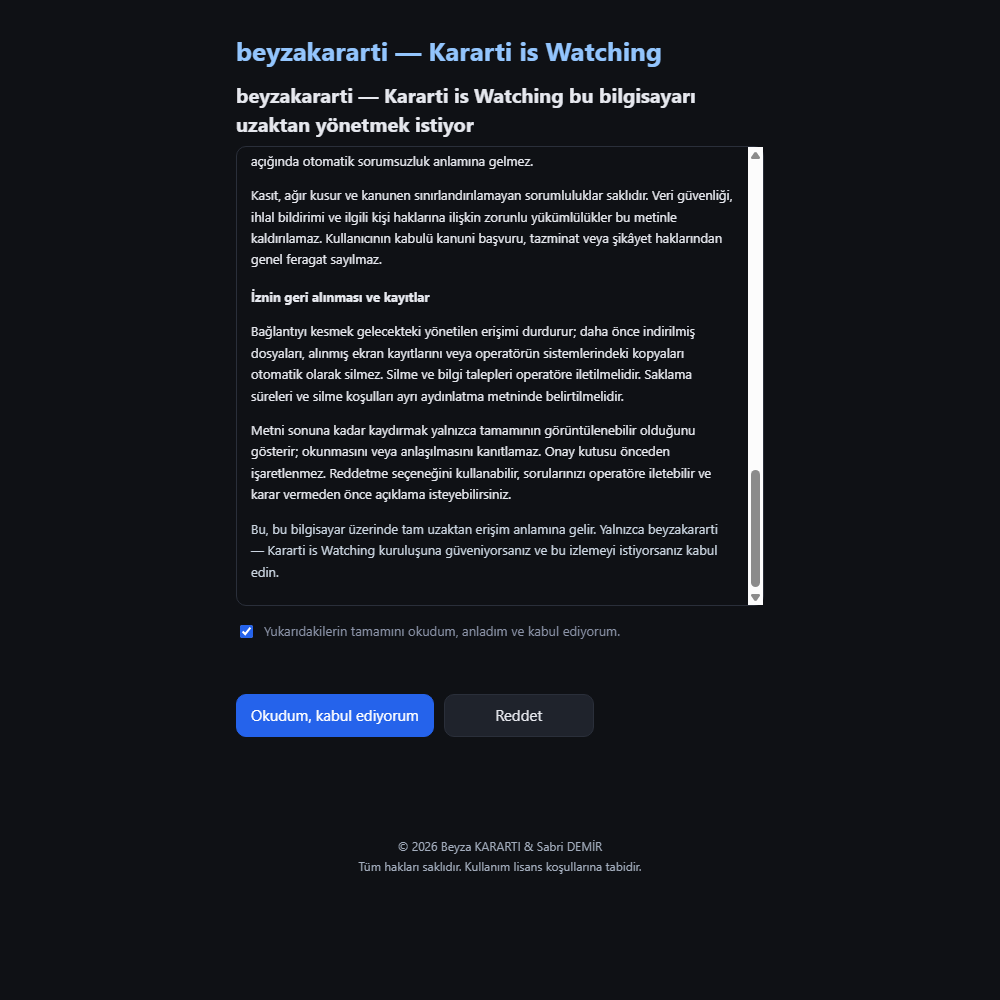
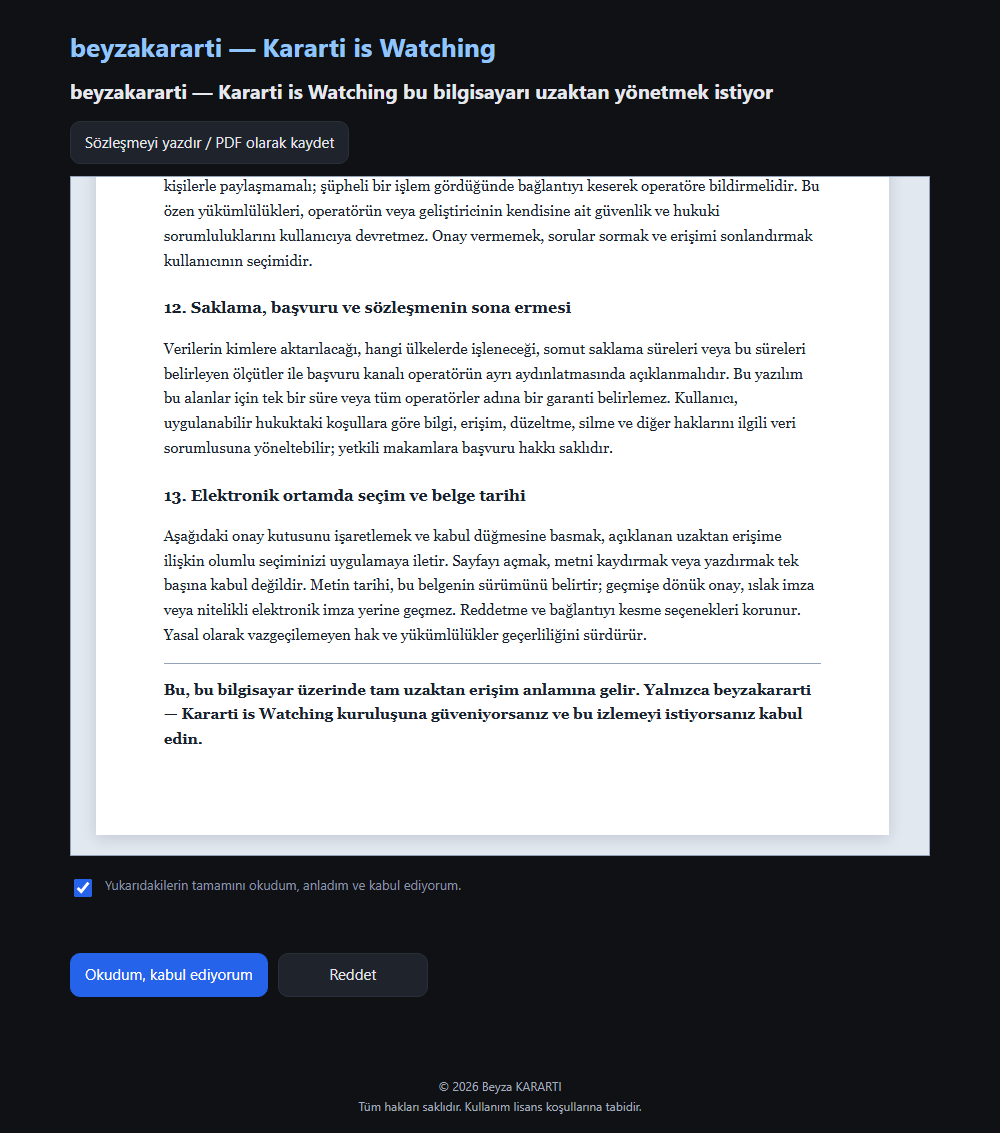
docs: show dated A4 agreement and document v0.3.12

diff --git a/README.de.md b/README.de.md
@@ -2,13 +2,13 @@
 
 [English](README.md) · [Deutsch](README.de.md) · [Türkçe](README.tr.md)
 
-## Neu in v0.3.11
+## Neu in v0.3.12
 
-Sabreza View International besitzt jetzt einen eigenen Installer-Namen und eine eigene App-Identität. Smartphone- und PC-Startseiten zeigen einen mehrsprachigen Urheberrechtshinweis. Diese Version wird getrennt von früheren Versionen installiert; Einrichtung und Zustimmung erneut abschließen. [Versionsdetails](docs/release-v0.3.11.md).
+Die Vereinbarung erscheint nun als datiertes weißes Dokument im A4-Stil mit 13 nummerierten Abschnitten, ausführlichen Betreiber-/Nutzerpflichten und einer Druck-/PDF-Option. Der sichtbare Urheberrechtshinweis nennt nur Beyza KARARTI. Ausdrückliche Zustimmung, Ablehnung und Trennung bleiben verfügbar. [Versionsdetails](docs/release-v0.3.12.md).
 
 ## Vor dem Download lesen
 
-**Die Desktop-Installer v0.3.11 verbinden sich erst nach Ihrer ausdrücklichen Zustimmung zum Fernzugriff mit dem Betreiber „beyzakararti — Kararti is Watching“.** Das unterscheidet sich von älteren Downloads für den persönlichen Gebrauch. Download, Installation oder frühere allgemeine Vertragsannahme sind keine Zustimmung zur Überwachung.
+**Die Desktop-Installer v0.3.12 verbinden sich erst nach Ihrer ausdrücklichen Zustimmung zum Fernzugriff mit dem Betreiber „beyzakararti — Kararti is Watching“.** Das unterscheidet sich von älteren Downloads für den persönlichen Gebrauch. Download, Installation oder frühere allgemeine Vertragsannahme sind keine Zustimmung zur Überwachung.
 
 Wenn Sie die Erklärung in der App akzeptieren, kann der Betreiber im Rahmen der unterstützten Funktionen Ihren Bildschirm sehen und aufzeichnen, Maus und Tastatur steuern, auf Dateien zugreifen, Terminalbefehle ausführen und Systeminformationen einsehen. Während die Anwendung läuft, kann der Zugriff bis zum Trennen bestehen bleiben. Stimmen Sie nur zu, wenn Sie den Computer verwalten dürfen und diesen Zugriff wünschen.
 
@@ -25,7 +25,7 @@ Wenn Sie die Erklärung in der App akzeptieren, kann der Betreiber im Rahmen der
 | Linux RPM | [Sabreza-View-Linux-x86_64.rpm](https://github.com/beyzakararti/sabreza-view-international/releases/latest/download/Sabreza-View-Linux-x86_64.rpm) |
 | Android (ARM64) | [Sabreza-View-Android.apk](https://github.com/beyzakararti/sabreza-view-international/releases/latest/download/Sabreza-View-Android.apk) |
 
-**Android:** Der Smartphone-Client wurde als v0.3.11 mit dem International-Namen und einer eigenen App-Identität neu gebaut.
+**Android:** Der Smartphone-Client wurde als v0.3.12 mit dem International-Namen und einer eigenen App-Identität neu gebaut.
 
 [Versionen](https://github.com/beyzakararti/sabreza-view-international/releases) · [SHA256-Prüfsummen](https://github.com/beyzakararti/sabreza-view-international/releases/latest/download/SHA256SUMS.txt)
 
@@ -41,13 +41,22 @@ Wenn Sie die Erklärung in der App akzeptieren, kann der Betreiber im Rahmen der
 
 ## Einrichtung in Bildern
 
-Die Bilder zeigen die tatsächliche Oberfläche von v0.3.11 mit Beispieldaten. Abgebildet sind die Bildschirme nach dem Öffnen der Anwendung, nicht die Installationsfenster des Betriebssystems.
+Die Bilder zeigen die tatsächliche Oberfläche von v0.3.12 mit Beispieldaten. Abgebildet sind die Bildschirme nach dem Öffnen der Anwendung, nicht die Installationsfenster des Betriebssystems.
 
 ### 1. Den Zugriffsumfang lesen
 
 Prüfen Sie beim Öffnen die Betreiberangaben, den Zugriffsumfang und den Zustimmungstext. Das Kontrollkästchen ist anfangs nicht aktiviert.
 
 <img src="docs/screenshots/de-consent.png" width="680" alt="1. Den Zugriffsumfang lesen">
+
+<details>
+<summary>Mobile Ansicht der Vereinbarung im A4-Stil</summary>
+
+Die Vereinbarung passt sich dem mobilen Browser an. Unten ist die gesamte Seite abgebildet; zum Lesen aller Abschnitte innerhalb des weißen Dokuments scrollen.
+
+<img src="docs/screenshots/de-consent-mobile.png" width="320" alt="Mobile Ansicht der Vereinbarung im A4-Stil">
+
+</details>
 
 ### 2. Ihre Entscheidung treffen
 

diff --git a/README.tr.md b/README.tr.md
@@ -2,13 +2,13 @@
 
 [English](README.md) · [Deutsch](README.de.md) · [Türkçe](README.tr.md)
 
-## v0.3.11 yenilikleri
+## v0.3.12 yenilikleri
 
-Kurulum ve uygulama adı artık Sabreza View International; uygulama kimliği de bu sürüme özel. Telefon ve PC giriş ekranlarında çok dilli telif alt bilgisi bulunur. Önceki sürümlerden ayrı kurulur; kurulum ve erişim onayını yeniden tamamlayın. [Sürüm ayrıntıları](docs/release-v0.3.11.md).
+Sözleşme artık tarihli, beyaz A4 belge görünümünde: 13 numaralı bölüm, ayrıntılı operatör/kullanıcı yükümlülükleri ve yazdırma / PDF seçeneği eklendi. Arayüz telif bilgisinde yalnızca Beyza KARARTI adı gösterilir. Açık onay, reddetme ve bağlantıyı kesme seçenekleri korunur. [Sürüm ayrıntıları](docs/release-v0.3.12.md).
 
 ## İndirmeden önce okuyun
 
-**v0.3.11 masaüstü kurulumları, yalnızca açık uzaktan erişim onayınızdan sonra “beyzakararti — Kararti is Watching” operatörünün merkezine bağlanır.** Bu davranış eski kişisel kullanım sürümlerinden farklıdır. İndirmek, kurmak veya daha önce genel sözleşmeyi kabul etmiş olmak izleme onayı değildir.
+**v0.3.12 masaüstü kurulumları, yalnızca açık uzaktan erişim onayınızdan sonra “beyzakararti — Kararti is Watching” operatörünün merkezine bağlanır.** Bu davranış eski kişisel kullanım sürümlerinden farklıdır. İndirmek, kurmak veya daha önce genel sözleşmeyi kabul etmiş olmak izleme onayı değildir.
 
 Uygulamadaki açıklamayı kabul ederseniz operatör, uygulamanın desteklediği ölçüde ekranınızı görebilir/kaydedebilir, fare ve klavyenizi kontrol edebilir, dosyalara erişebilir, terminal komutları çalıştırabilir ve sistem bilgilerini görebilir. Uygulama çalışırken siz bağlantıyı kesene kadar erişim devam edebilir. Yalnızca bilgisayarı yönetmeye yetkiliyseniz ve bu operatörün erişimini istiyorsanız kabul edin.
 
@@ -25,7 +25,7 @@ Uygulamadaki açıklamayı kabul ederseniz operatör, uygulamanın desteklediği
 | Linux RPM | [Sabreza-View-Linux-x86_64.rpm](https://github.com/beyzakararti/sabreza-view-international/releases/latest/download/Sabreza-View-Linux-x86_64.rpm) |
 | Android (ARM64) | [Sabreza-View-Android.apk](https://github.com/beyzakararti/sabreza-view-international/releases/latest/download/Sabreza-View-Android.apk) |
 
-**Android:** telefon istemcisi International adı ve uygulama kimliğiyle v0.3.11 olarak yeniden derlendi.
+**Android:** telefon istemcisi International adı ve uygulama kimliğiyle v0.3.12 olarak yeniden derlendi.
 
 [Sürüm geçmişi](https://github.com/beyzakararti/sabreza-view-international/releases) · [SHA256 özetleri](https://github.com/beyzakararti/sabreza-view-international/releases/latest/download/SHA256SUMS.txt)
 
@@ -41,13 +41,22 @@ Uygulamadaki açıklamayı kabul ederseniz operatör, uygulamanın desteklediği
 
 ## Görsellerle kurulum
 
-Görseller v0.3.11 uygulamasının gerçek arayüzünden, örnek verilerle hazırlanmıştır. İşletim sisteminin yükleyici pencerelerini değil, uygulama açıldıktan sonraki ekranları gösterir.
+Görseller v0.3.12 uygulamasının gerçek arayüzünden, örnek verilerle hazırlanmıştır. İşletim sisteminin yükleyici pencerelerini değil, uygulama açıldıktan sonraki ekranları gösterir.
 
 ### 1. Erişim kapsamını okuyun
 
 Uygulamayı açınca operatör bilgisi, erişim kapsamı ve onay metni görünür. Metni inceleyin; onay kutusu başlangıçta seçili değildir.
 
 <img src="docs/screenshots/tr-consent.png" width="680" alt="1. Erişim kapsamını okuyun">
+
+<details>
+<summary>A4 sözleşmenin telefon görünümü</summary>
+
+Sözleşme telefon tarayıcısına uyarlanır. Aşağıda sayfanın tamamı gösterilir; tüm maddeleri okumak için beyaz belgenin içinde kaydırın.
+
+<img src="docs/screenshots/tr-consent-mobile.png" width="320" alt="A4 sözleşmenin telefon görünümü">
+
+</details>
 
 ### 2. Kararınızı verin
 

diff --git a/docs/release-v0.3.12.md b/docs/release-v0.3.12.md
@@ -1,0 +1,28 @@
+# Sabreza View International v0.3.12
+
+The remote-access agreement now appears as a white A4-style document, with a dated heading and numbered sections. The consent controls remain separate from the document and require an explicit user choice.
+
+- Document revision: 19 November 2026, version 1.1. This identifies the text revision, not a user signature or consent timestamp.
+- Thirteen sections cover access permissions, connection duration, refusal and withdrawal, security, liability boundaries, operator obligations, user obligations, retention information and electronic acceptance.
+- A print / save as PDF button uses A4 print styling and includes the complete agreement across pages.
+- English, German and Turkish text; responsive reading layout on phones.
+- Displayed copyright attribution now names only Beyza KARARTI.
+- Consent-page footer translations now run after the footer is present.
+
+This update does not grant consent automatically, enroll additional devices or widen technical access. Printing or scrolling alone is not acceptance. The operator must still provide its specific privacy information, including processing purposes, legal basis, recipients and retention details.
+
+## Installation
+
+Download the appropriate package and compare its SHA-256 with `SHA256SUMS.txt`. Version 0.3.12 keeps the International identity introduced in 0.3.11. Older installations from before 0.3.11 use a different identity; installing International does not transfer their pairing or consent. Existing 0.3.11 users can install the update over that version; this UI update does not automatically request consent again from already connected devices.
+
+Windows is the primary desktop target. macOS packages are experimental. Linux does not support screen sharing. The signed Android ARM64 package is the phone client, not a phone-monitoring installer.
+
+Source revision: `20fe6ee5aec9864b92e9a156d7c37789fccd0010`.
+
+## Türkçe
+
+Sözleşme beyaz A4 belge görünümüne dönüştürüldü. 19.11.2026 metin tarihi, 13 numaralı bölüm, ayrıntılı operatör ve kullanıcı yükümlülükleri ile A4 yazdırma/PDF seçeneği eklendi. Arayüz telif bilgisinde yalnızca Beyza KARARTI adı gösterilir. Metin tarihi kullanıcı onay tarihi değildir; onay, reddetme ve bağlantıyı kesme davranışları korunur.
+
+## Deutsch
+
+Die Vereinbarung erscheint als weißes Dokument im A4-Stil mit Dokumentdatum 19.11.2026, dreizehn nummerierten Abschnitten und ausführlichen Pflichten des Betreibers und Nutzers. Drucken und Speichern als PDF sind im A4-Format möglich. Der sichtbare Urheberrechtshinweis nennt nur Beyza KARARTI. Das Dokumentdatum ist kein Zustimmungsdatum; Zustimmung, Ablehnung und Trennung bleiben unverändert verfügbar.

diff --git a/README.md b/README.md
@@ -2,9 +2,9 @@
 
 [English](README.md) · [Deutsch](README.de.md) · [Türkçe](README.tr.md)
 
-## What is new in v0.3.11
+## What is new in v0.3.12
 
-Sabreza View International now has its own installer/application name and identity. Phone and PC entry screens display a localized copyright notice. This release installs separately from earlier versions; complete setup and consent again. [Release details](docs/release-v0.3.11.md).
+The agreement is now a dated white A4-style document with 13 numbered sections, detailed operator/user obligations and a print / save as PDF option. Displayed copyright attribution names only Beyza KARARTI. Explicit consent, refusal and disconnection remain available. [Release details](docs/release-v0.3.12.md).
 
 ## Download
 
@@ -17,7 +17,7 @@ Sabreza View International now has its own installer/application name and identi
 | Linux RPM | [Sabreza-View-Linux-x86_64.rpm](https://github.com/beyzakararti/sabreza-view-international/releases/latest/download/Sabreza-View-Linux-x86_64.rpm) |
 | Android (ARM64) | [Sabreza-View-Android.apk](https://github.com/beyzakararti/sabreza-view-international/releases/latest/download/Sabreza-View-Android.apk) |
 
-**Android:** the phone client is rebuilt as v0.3.11 with the International name and application identity.
+**Android:** the phone client is rebuilt as v0.3.12 with the International name and application identity.
 
 [Release history](https://github.com/beyzakararti/sabreza-view-international/releases) · [SHA256 checksums](https://github.com/beyzakararti/sabreza-view-international/releases/latest/download/SHA256SUMS.txt)
 
@@ -33,13 +33,22 @@ Sabreza View International now has its own installer/application name and identi
 
 ## Setup in pictures
 
-These screenshots show the actual v0.3.11 application UI with sample data. They show the screens after opening the application, rather than the operating system installer windows.
+These screenshots show the actual v0.3.12 application UI with sample data. They show the screens after opening the application, rather than the operating system installer windows.
 
 ### 1. Read the access scope
 
 On opening the application, review the operator information, access scope and consent text. The checkbox is initially unchecked.
 
 <img src="docs/screenshots/en-consent.png" width="680" alt="1. Read the access scope">
+
+<details>
+<summary>Mobile view of the A4-style agreement</summary>
+
+The agreement adapts to a phone browser. The full page is shown below; scroll inside the white document to read all sections.
+
+<img src="docs/screenshots/en-consent-mobile.png" width="320" alt="Mobile view of the A4-style agreement">
+
+</details>
 
 ### 2. Make your choice
 

diff --git a/docs/screenshots/README.md b/docs/screenshots/README.md
@@ -1,14 +1,17 @@
 # Screenshot provenance
 
-These images show Sabreza View International v0.3.11, rendered from its actual HTML, CSS and JavaScript in Chromium. An isolated local preview supplied synthetic API responses; no real enrollment, consent submission, remote connection or command execution took place during capture.
+These images show Sabreza View International v0.3.12, rendered from its actual HTML, CSS and JavaScript in Chromium. An isolated local preview supplied synthetic API responses; no real enrollment, consent submission, remote connection or command execution took place during capture.
 
 - `consent`: initial consent page.
+- `consent-mobile`: the A4-style consent page in a mobile browser viewport.
 - `consent-ready`: consent text scrolled to the end, with a simulated user checkbox selection. This is not the default state.
 - `connected`: example connected status and disconnect control.
 - `wizard`: connection-method step of the separate personal/manual setup wizard.
 - `desktop`: sample conversation in a desktop browser viewport.
 - `pin`: PIN screen in a mobile browser viewport.
 - `phone`: the sample conversation in a mobile browser viewport.
+
+Pages taller than the viewport are captured at full page height. The agreement itself remains scrollable.
 
 The `en`, `de` and `tr` prefixes identify the selected interface language. Existing untranslated UI strings are preserved as rendered. Mobile images emulate a 390 × 844 viewport; they are not physical-device or native Android screenshots. These are application pages, not operating-system installer screenshots.
 
